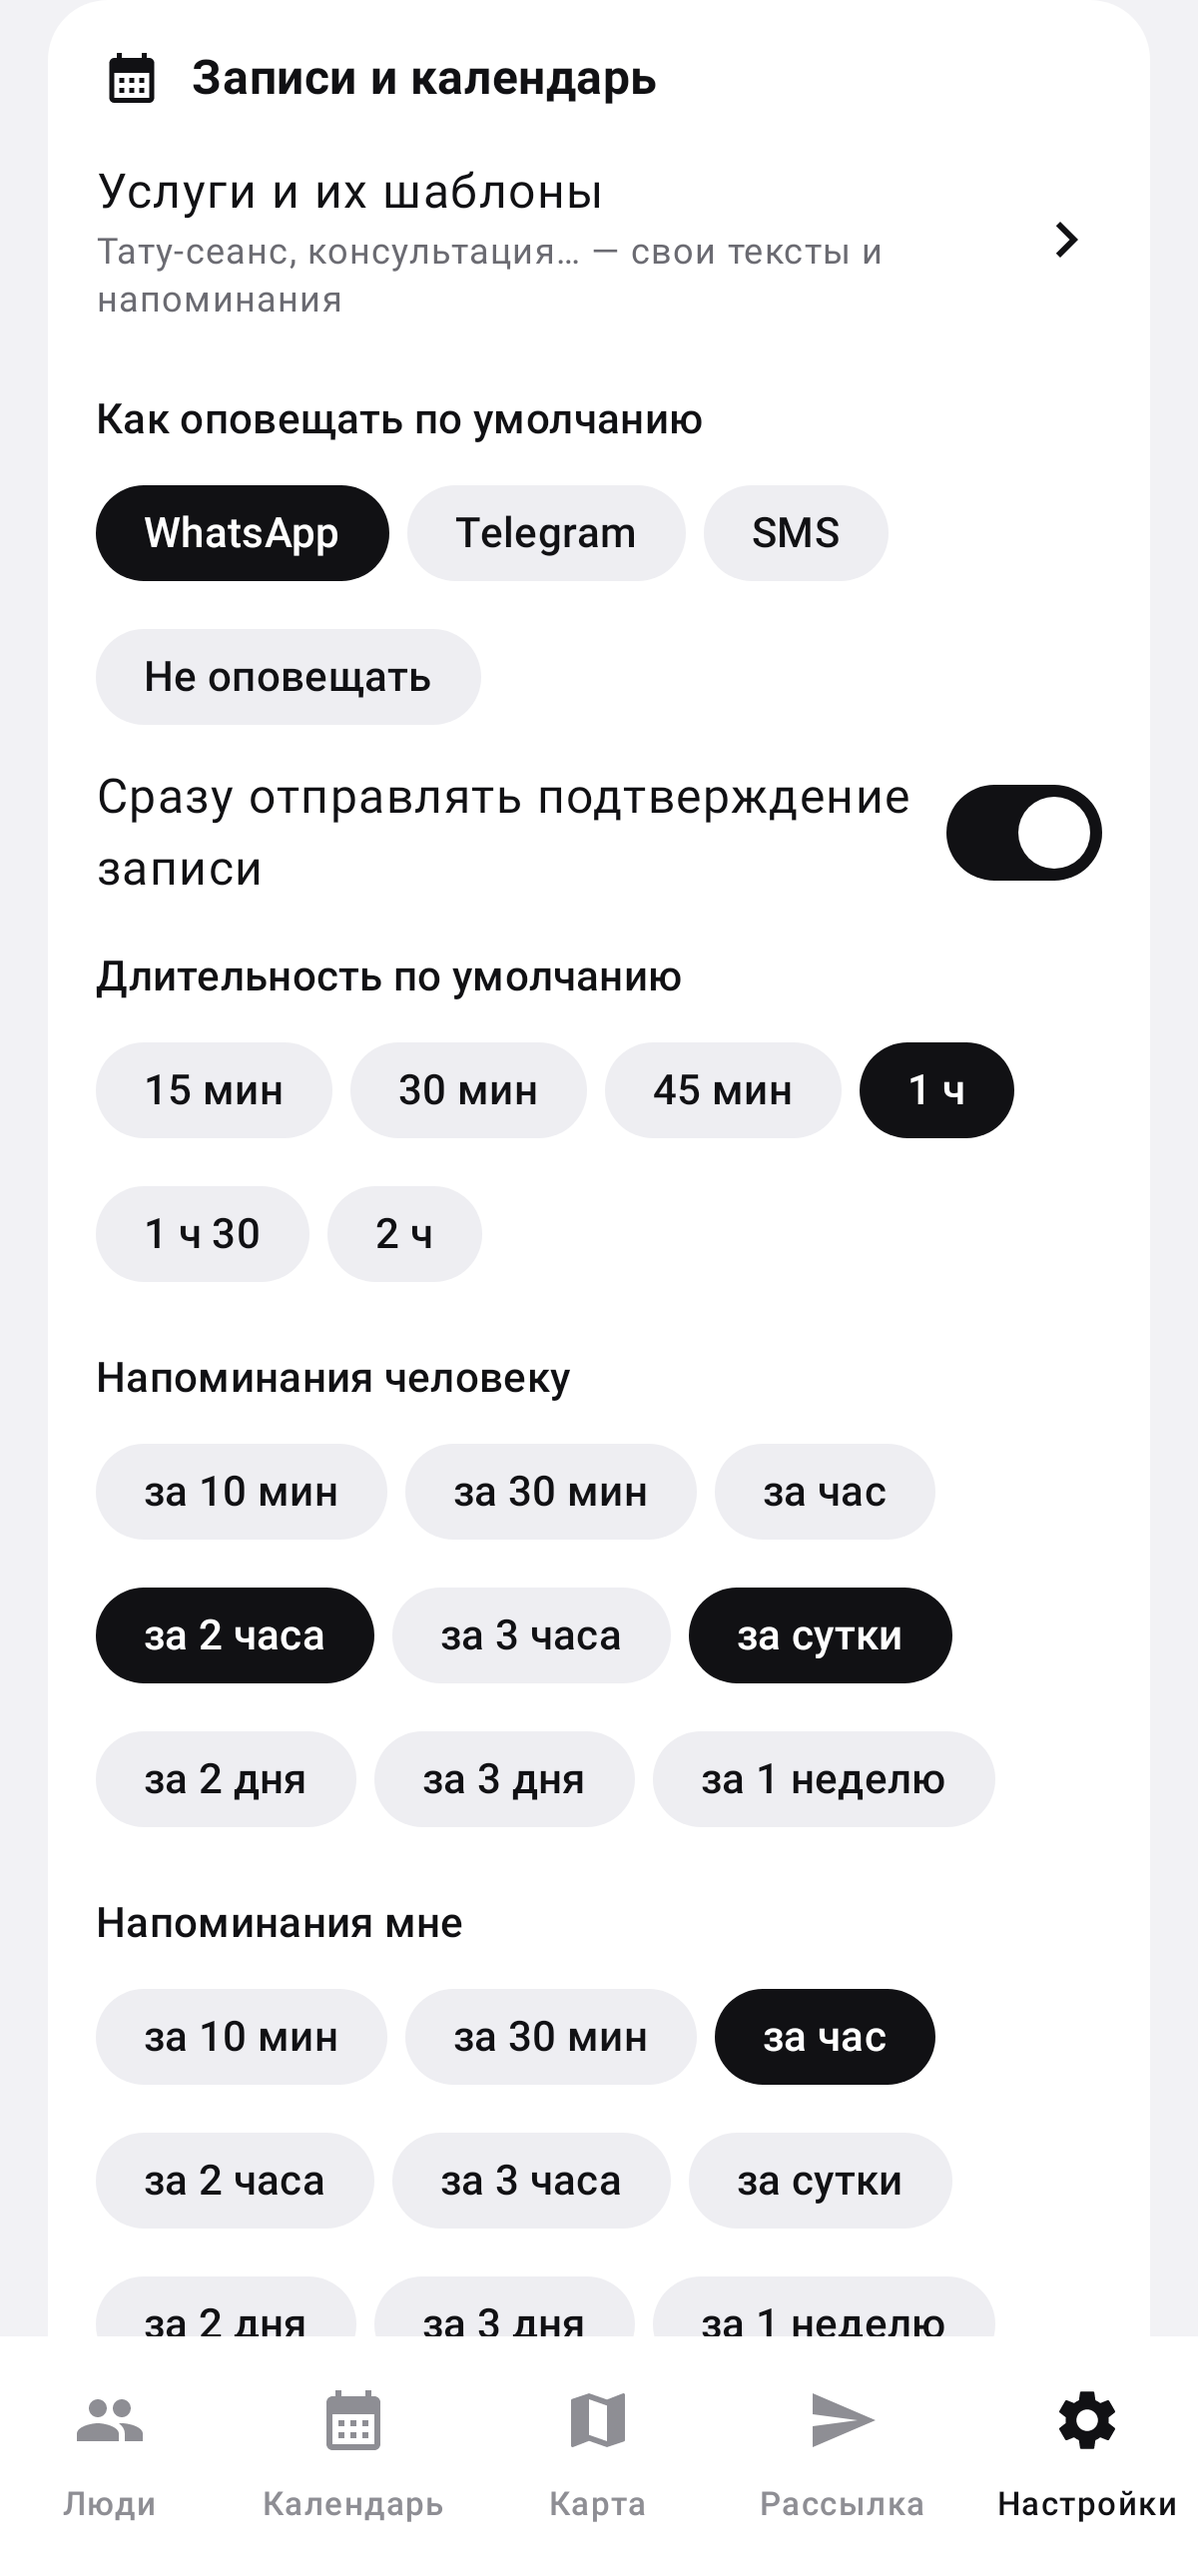
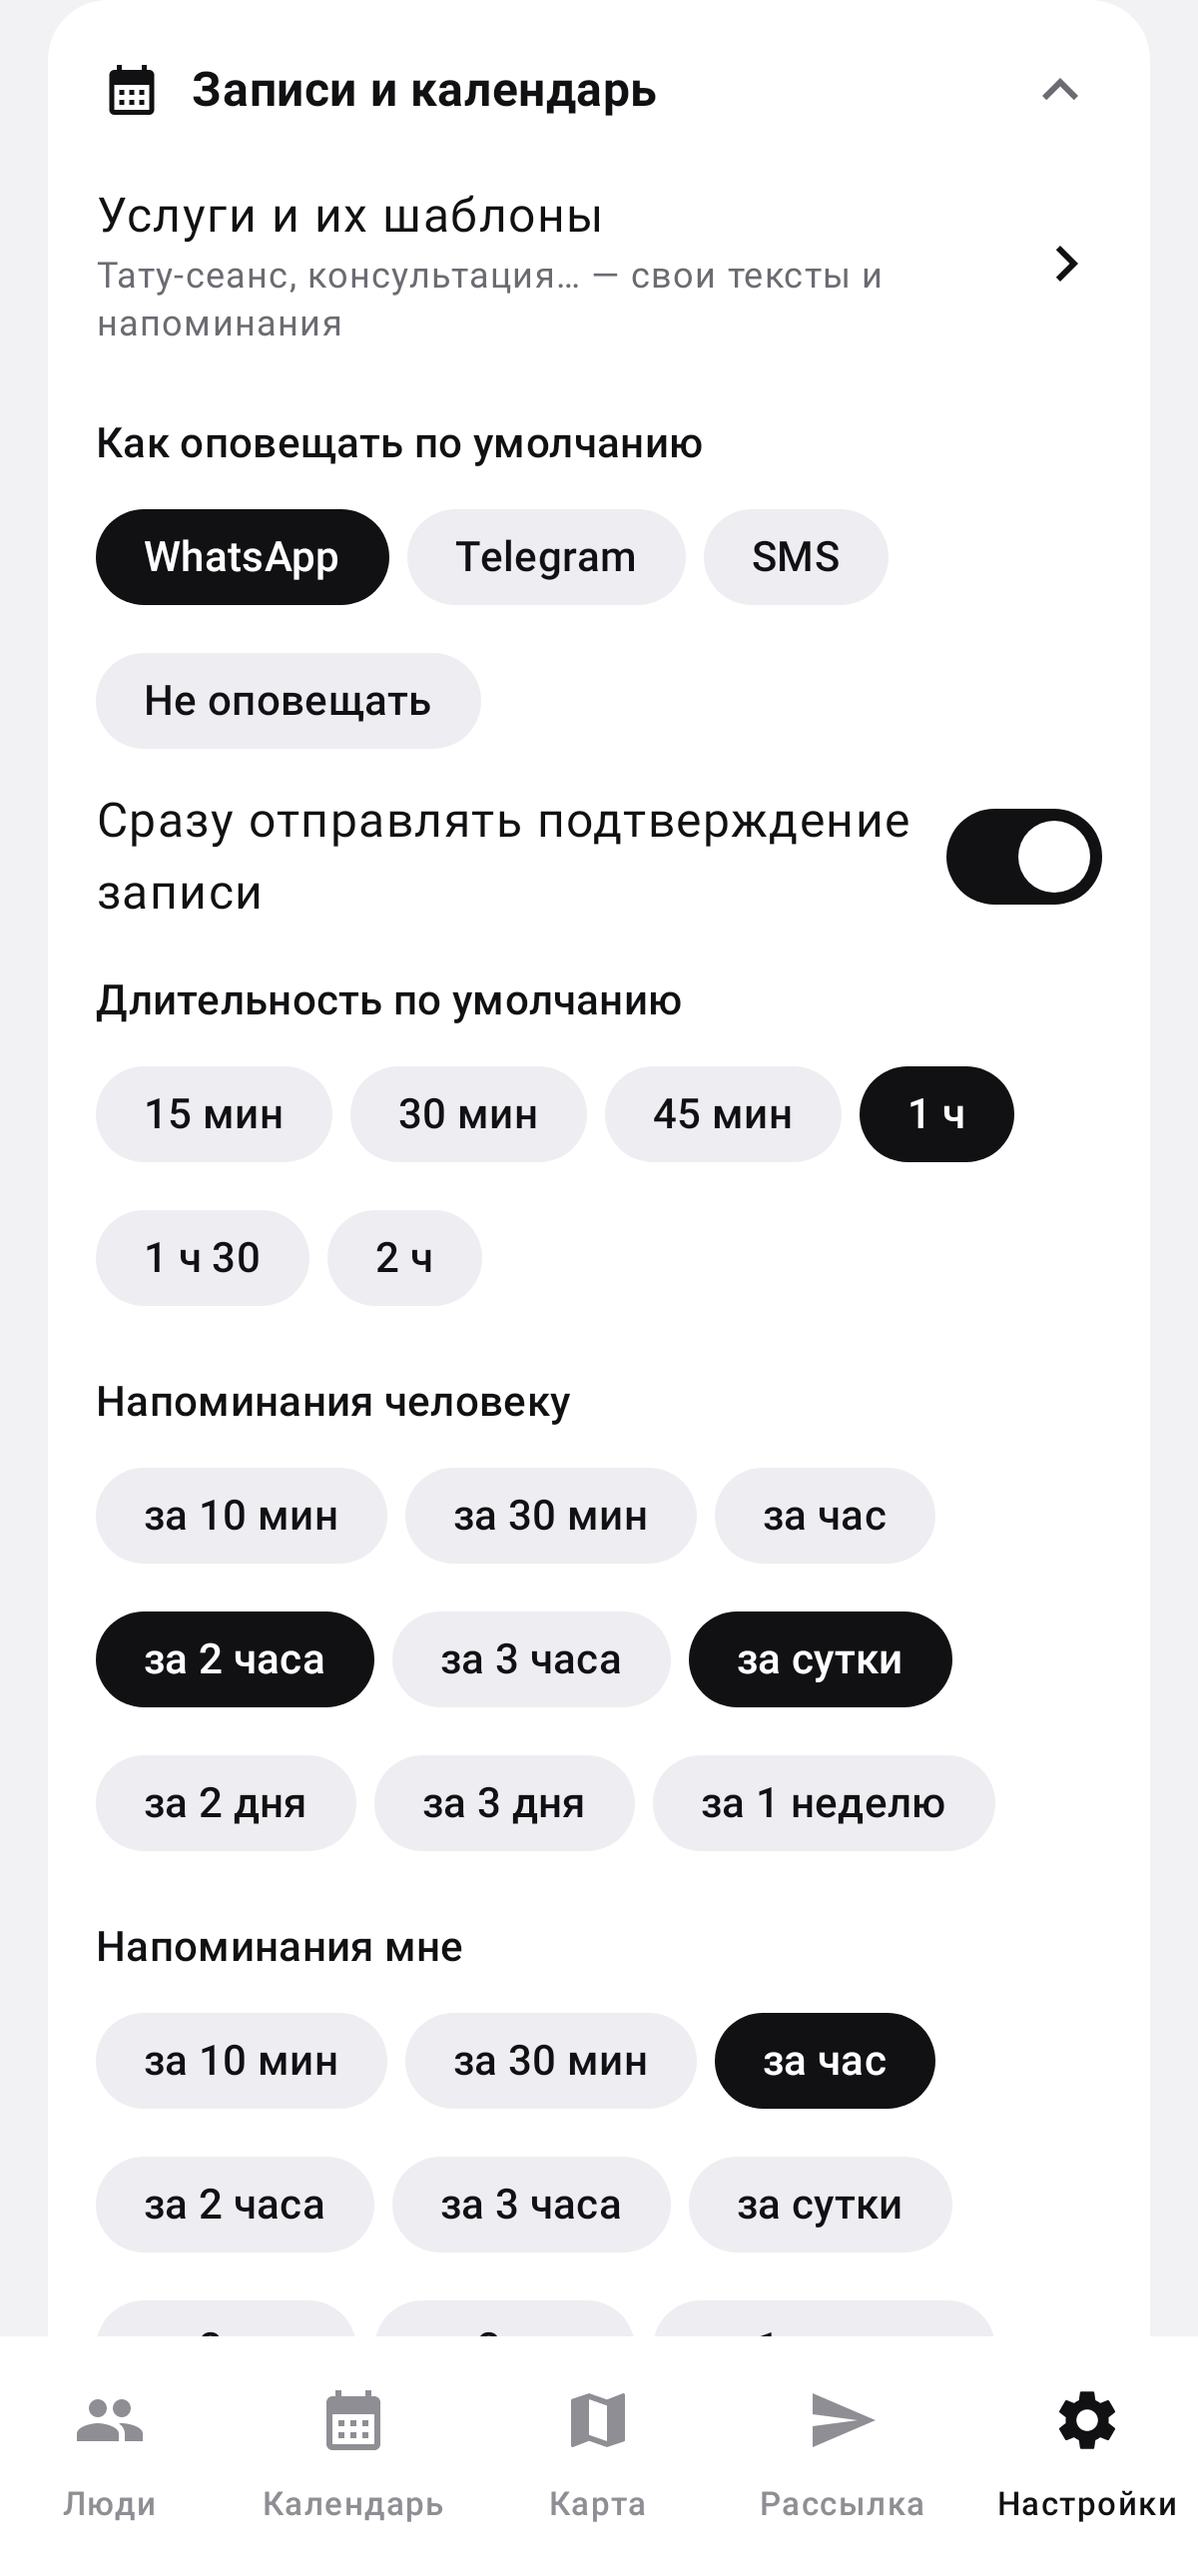
v1.9: collapsible settings sections
SectionCard gains an opt-in collapsible mode (clickable header, rotating
chevron, animated content). All settings sections are collapsible, with
the first ('Значок и название') expanded by default, so the Settings page
is much shorter.

Claude-Session: https://claude.ai/code/session_01HkrfmyeVh7sZjS3Avan5hw

diff --git a/app/src/main/java/com/kartoteka/app/ui/settings/SettingsScreen.kt b/app/src/main/java/com/kartoteka/app/ui/settings/SettingsScreen.kt
@@ -112,11 +112,11 @@ fun SettingsScreen(onImportContacts: () -> Unit, onServices: () -> Unit = {}) {
             Text(t("Настройки"), style = MaterialTheme.typography.headlineLarge)
         }
 
-        SectionCard(t("Значок и название"), Icons.Default.Palette) {
+        SectionCard(t("Значок и название"), Icons.Default.Palette, collapsible = true, initiallyExpanded = true) {
             AppearanceSettings(settings)
         }
 
-        SectionCard(t("Приватность"), Icons.Default.Shield) {
+        SectionCard(t("Приватность"), Icons.Default.Shield, collapsible = true) {
             LockSettings()
             ToggleRow(
                 Icons.Default.VisibilityOff, t("Скрывать содержимое"),
@@ -125,7 +125,7 @@ fun SettingsScreen(onImportContacts: () -> Unit, onServices: () -> Unit = {}) {
             InfoLine(Icons.Default.EnhancedEncryption, t("База данных зашифрована AES-256, ключ хранится в защищённом хранилище Android. Фото лежат во внутренней памяти приложения и не видны в галерее. Облачное резервирование Google отключено."))
         }
 
-        SectionCard(t("Телефоны"), Icons.Default.Phone) {
+        SectionCard(t("Телефоны"), Icons.Default.Phone, collapsible = true) {
             val iso by settings.country.value.collectAsState()
             val country = com.kartoteka.app.data.PhoneFormat.byIso(iso)
             ActionRow(Icons.Default.Public, t("Страна по умолчанию: %1\$s %2\$s (+%3\$s)", country.flag, t(country.name), country.code),
@@ -140,7 +140,7 @@ fun SettingsScreen(onImportContacts: () -> Unit, onServices: () -> Unit = {}) {
             }
         }
 
-        SectionCard(t("Язык приложения"), Icons.Default.Language) {
+        SectionCard(t("Язык приложения"), Icons.Default.Language, collapsible = true) {
             val uiLang by settings.uiLang.value.collectAsState()
             androidx.compose.foundation.layout.FlowRow(Modifier.padding(horizontal = 16.dp, vertical = 6.dp), horizontalArrangement = Arrangement.spacedBy(8.dp)) {
                 com.kartoteka.app.i18n.UiLang.entries.forEach { l ->
@@ -164,7 +164,7 @@ fun SettingsScreen(onImportContacts: () -> Unit, onServices: () -> Unit = {}) {
             )
         }
 
-        SectionCard(t("Язык сообщений"), Icons.Default.Translate) {
+        SectionCard(t("Язык сообщений"), Icons.Default.Translate, collapsible = true) {
             val lang by settings.messageLang.value.collectAsState()
             Text(
                 t("На этом языке будут шаблоны подтверждений и напоминаний, даты, дни недели и приветствие в рассылке. ") +
@@ -179,11 +179,11 @@ fun SettingsScreen(onImportContacts: () -> Unit, onServices: () -> Unit = {}) {
             }
         }
 
-        SectionCard(t("Записи и календарь"), Icons.Default.CalendarMonth) {
+        SectionCard(t("Записи и календарь"), Icons.Default.CalendarMonth, collapsible = true) {
             CalendarSettings(settings, onServices)
         }
 
-        SectionCard(t("Авто-отправка в мессенджерах"), Icons.Default.AutoMode) {
+        SectionCard(t("Авто-отправка в мессенджерах"), Icons.Default.AutoMode, collapsible = true) {
             val on = remember(resumeTick) { com.kartoteka.app.messaging.AutoSend.isServiceEnabled(context) }
             val delay by settings.autoSendDelaySec.value.collectAsState()
             ActionRow(
@@ -202,7 +202,7 @@ fun SettingsScreen(onImportContacts: () -> Unit, onServices: () -> Unit = {}) {
             InfoLine(Icons.Default.Info, t("Если телефон заблокирован в момент напоминания, придёт уведомление — одно нажатие, и сообщение уйдёт. SMS отправляются полностью в фоне."))
         }
 
-        SectionCard(t("Напоминания"), Icons.Default.Cake) {
+        SectionCard(t("Напоминания"), Icons.Default.Cake, collapsible = true) {
             ToggleRow(Icons.Default.Cake, t("Дни рождения"), t("Уведомление в день рождения и за 3 дня"), birthdays) { v ->
                 if (v && Build.VERSION.SDK_INT >= 33) notifPermission.launch(Manifest.permission.POST_NOTIFICATIONS)
                 else {
@@ -212,7 +212,7 @@ fun SettingsScreen(onImportContacts: () -> Unit, onServices: () -> Unit = {}) {
             }
         }
 
-        SectionCard(t("Данные"), Icons.Default.Backup) {
+        SectionCard(t("Данные"), Icons.Default.Backup, collapsible = true) {
             ActionRow(Icons.Default.Contacts, t("Импорт из контактов телефона"), t("Перенести людей из телефонной книги"), onImportContacts)
             ActionRow(Icons.Default.Backup, t("Создать резервную копию"), t("Зашифрованный файл с данными и фото")) {
                 val stamp = SimpleDateFormat("yyyy-MM-dd", Locale.US).format(Date())

diff --git a/app/src/main/java/com/kartoteka/app/ui/components/Components.kt b/app/src/main/java/com/kartoteka/app/ui/components/Components.kt
@@ -1,9 +1,11 @@
 package com.kartoteka.app.ui.components
 
 import com.kartoteka.app.i18n.t
+import androidx.compose.ui.draw.rotate
 
 import androidx.compose.foundation.ExperimentalFoundationApi
 import androidx.compose.foundation.background
+import androidx.compose.foundation.clickable
 import androidx.compose.foundation.combinedClickable
 import androidx.compose.foundation.layout.Arrangement
 import androidx.compose.foundation.layout.Box
@@ -23,6 +25,7 @@ import androidx.compose.material.icons.automirrored.filled.Chat
 import androidx.compose.material.icons.filled.AlternateEmail
 import androidx.compose.material.icons.filled.Call
 import androidx.compose.material.icons.filled.Email
+import androidx.compose.material.icons.filled.ExpandMore
 import androidx.compose.material.icons.filled.Language
 import androidx.compose.material.icons.filled.MoreHoriz
 import androidx.compose.material.icons.filled.PhotoCamera
@@ -96,25 +99,48 @@ fun SectionCard(
     title: String,
     icon: ImageVector? = null,
     modifier: Modifier = Modifier,
+    collapsible: Boolean = false,
+    initiallyExpanded: Boolean = false,
     action: (@Composable () -> Unit)? = null,
     content: @Composable ColumnScope.() -> Unit,
 ) {
+    // Свёрнутое состояние запоминается по заголовку — переживает прокрутку и поворот экрана.
+    val expandedState = androidx.compose.runtime.saveable.rememberSaveable(title) { androidx.compose.runtime.mutableStateOf(!collapsible || initiallyExpanded) }
+    val expanded = expandedState.value
+    val rotation = androidx.compose.animation.core.animateFloatAsState(if (expanded) 180f else 0f, label = "chevron").value
     Surface(
         modifier = modifier.fillMaxWidth().padding(horizontal = 16.dp, vertical = 6.dp),
         shape = RoundedCornerShape(20.dp),
         color = MaterialTheme.colorScheme.surfaceContainerLow,
     ) {
         Column(Modifier.padding(vertical = 14.dp)) {
-            Row(Modifier.padding(horizontal = 18.dp).fillMaxWidth(), verticalAlignment = Alignment.CenterVertically) {
+            Row(
+                Modifier
+                    .then(if (collapsible) Modifier.clickable { expandedState.value = !expandedState.value } else Modifier)
+                    .padding(horizontal = 18.dp, vertical = if (collapsible) 4.dp else 0.dp)
+                    .fillMaxWidth(),
+                verticalAlignment = Alignment.CenterVertically,
+            ) {
                 if (icon != null) {
                     Icon(icon, null, tint = MaterialTheme.colorScheme.onSurface, modifier = Modifier.size(20.dp))
                     Spacer(Modifier.width(10.dp))
                 }
                 Text(title, style = MaterialTheme.typography.titleMedium.copy(fontWeight = FontWeight.Bold), modifier = Modifier.weight(1f))
                 action?.invoke()
+                if (collapsible) {
+                    Icon(
+                        Icons.Default.ExpandMore, if (expanded) t("Свернуть") else t("Развернуть"),
+                        tint = MaterialTheme.colorScheme.onSurfaceVariant,
+                        modifier = Modifier.rotate(rotation),
+                    )
+                }
             }
-            Spacer(Modifier.size(6.dp))
-            content()
+            androidx.compose.animation.AnimatedVisibility(visible = expanded) {
+                Column {
+                    Spacer(Modifier.size(6.dp))
+                    content()
+                }
+            }
         }
     }
 }

diff --git a/app/src/test/java/com/kartoteka/app/screens/ScreensTest.kt b/app/src/test/java/com/kartoteka/app/screens/ScreensTest.kt
@@ -191,6 +191,9 @@ class ScreensTest {
 
         compose.onNodeWithText("Настройки").performClick()
         settle()
+        compose.onNode(hasScrollAction()).performScrollToNode(hasText("Записи и календарь"))
+        compose.onNodeWithText("Записи и календарь").performClick()
+        settle()
         compose.onNode(hasScrollAction()).performScrollToNode(hasText("Услуги и их шаблоны"))
         compose.onNodeWithText("Услуги и их шаблоны").performClick()
         settle()
@@ -223,9 +226,13 @@ class ScreensTest {
         compose.onNodeWithText("Настройки").performClick()
         settle()
         shot("06_settings")
-        compose.onNode(hasScrollAction()).performScrollToNode(hasText("Язык сообщений"))
+        compose.onNode(hasScrollAction()).performScrollToNode(hasText("Язык приложения"))
+        compose.onNodeWithText("Язык приложения").performClick()
         settle()
         shot("16_settings_language")
+        compose.onNode(hasScrollAction()).performScrollToNode(hasText("Данные"))
+        compose.onNodeWithText("Данные").performClick()
+        settle()
         compose.onNode(hasScrollAction()).performScrollToNode(hasText("Пароль копий"))
         settle()
         shot("26_settings_autobackup")
@@ -243,6 +250,8 @@ class ScreensTest {
         compose.setContent { KartotekaTheme { KartotekaRoot(openPersonId = null, onPersonOpened = {}) } }
         settle()
         compose.onNodeWithText("Настройки").performClick()
+        settle()
+        compose.onNodeWithText("Приватность").performClick()
         settle()
         compose.onNode(hasScrollAction()).performScrollToNode(hasText("Встряхнуть — закрыть"))
         settle()
